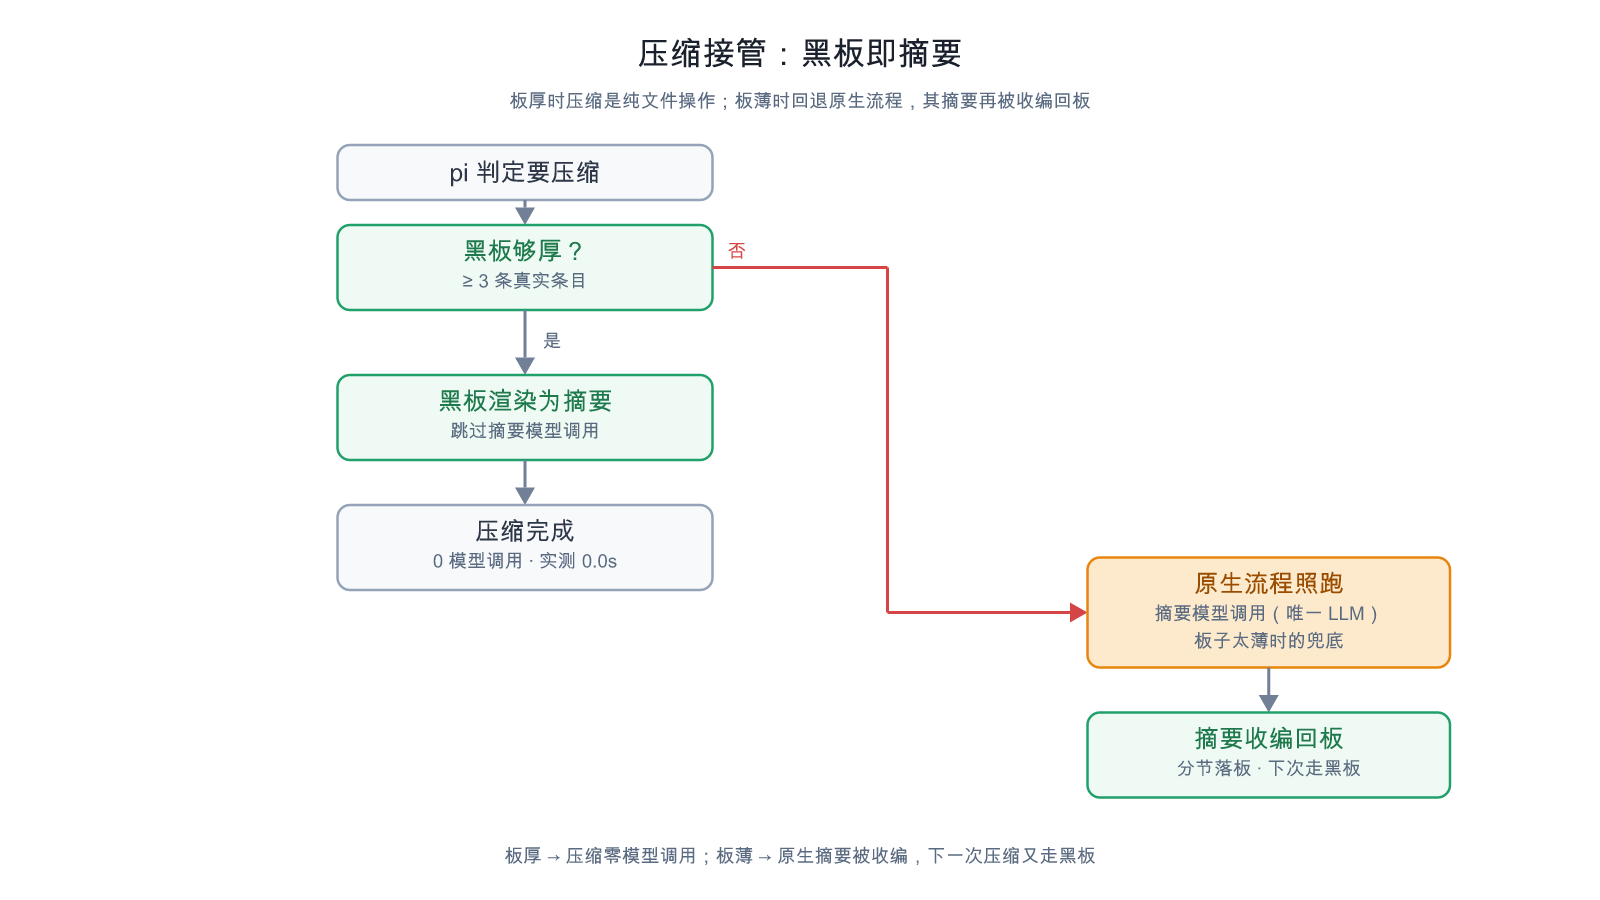
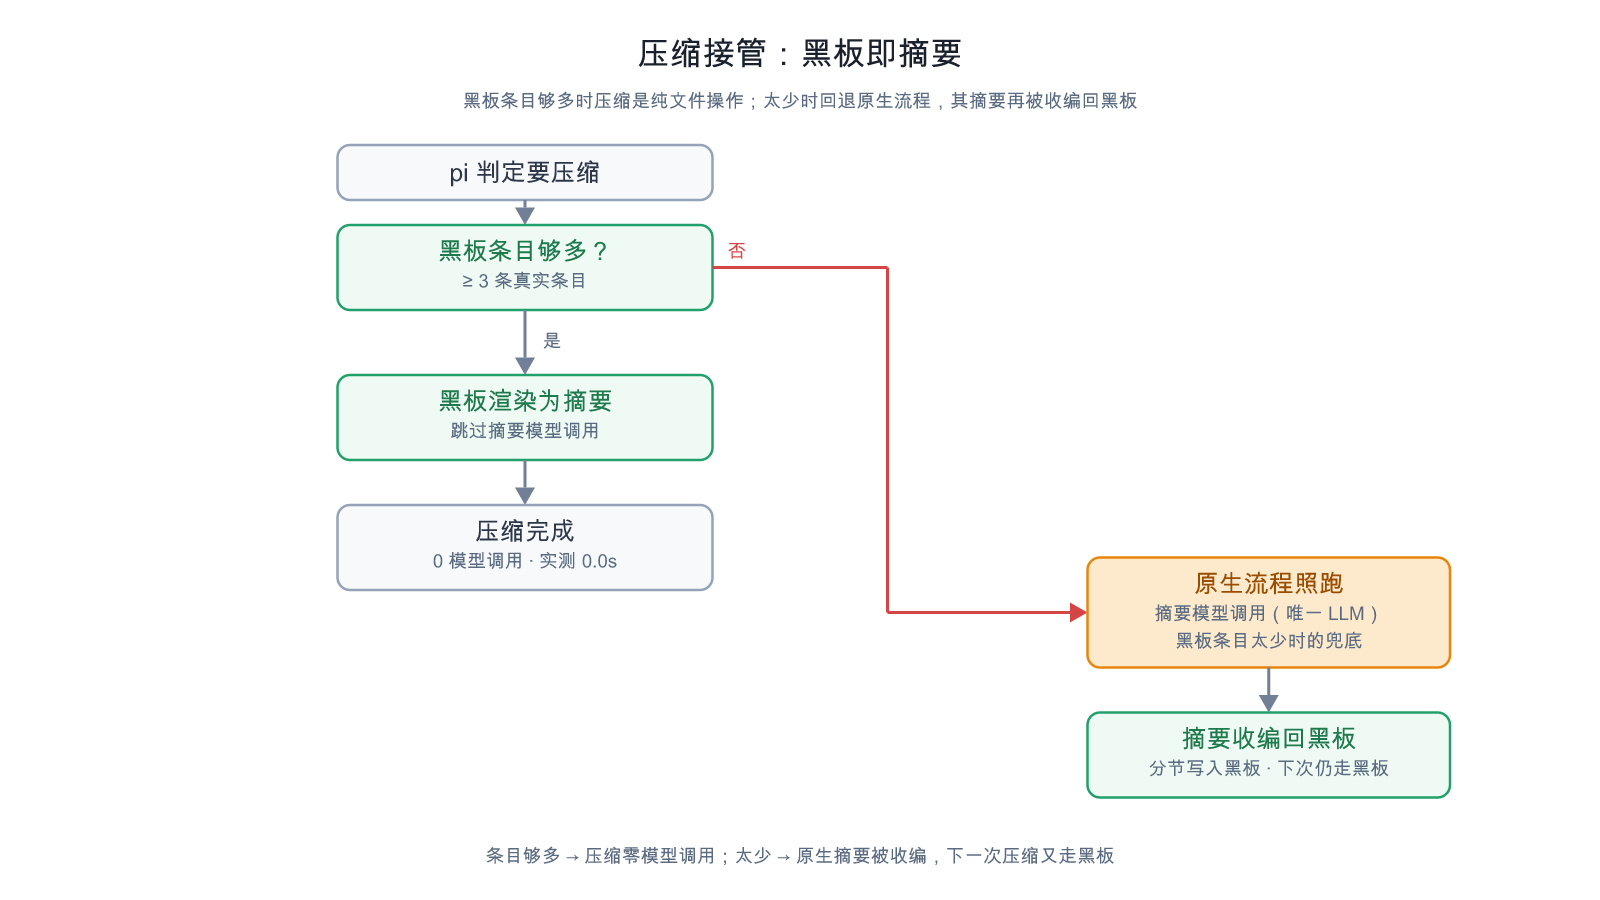
README 去过拟合：按 humanizer-zh 过一遍散文，中文术语统一为「黑板」
用户反馈文字 AI 味太重。按 C:\Users\LittleSatellite233\.pi\agent\skills\humanizer-zh
的规范只改确实存在的表达问题，保留全部事实、数字、限定与代码块：

- 去掉自我标榜与格言式收尾：banner 从「The honest warning / 真正的警告」改为直陈取舍；
  「connective tissue / 连接组织」这类比喻换成具体所指（语气、保留余地、没成形的推理）；
  「本扩展存在的理由正是…恰恰是丢得最干净的」「安全性靠结构而不是拒绝」「不会丢东西」
  等拔高句改成可核对的说法。
- 减少假对比与万能破折号：EN 散文 em dash 42→22（表格与代码样例保留），ZH —— 67→42；
  分句关系改用冒号/逗号/句号。
- 去掉 alliteration 与碎片收尾：corrects, culls / 毫秒级，无网络，无调参 等。
- 标题去营销腔并同步锚点：EN "Enable the mode that matters"→"Enable board mode"、
  "Limitations (the honest version)"→"Known limitations"；ZH「打开真正有用的模式」→
  「打开 board 模式」、「局限（诚实版）」→「已知局限」；目录与配置表内链同步改。
- 中文术语统一：56 处「板/板子」全部改成「黑板」，"落板"→"写入黑板"、"活板"→"当前黑板"、
  "薄板"→"内容太少的黑板"；docs/src/02-compaction-zh.svg 标签同步改（黑板条目够多？/
  摘要收编回黑板/分节写入黑板），已 npm run docs:render 重出 4 张 PNG 并目检
  02-compaction-zh.png：无溢出、无缺字、箭头居中。

diff --git a/README.md b/README.md
@@ -8,17 +8,19 @@ hands the draft to the agent for review, and writes what survives to disk. When
 compaction fires, **that file is the summary**: pi's summarization call is skipped
 entirely, and pi's own cut-point, retained tail and compaction entry are untouched.
 
-> ⚠ **The honest warning.** `"board"` mode buys cost and determinism with
-> summary *quality*: an LLM summary re-narrates the conversation, while a board
-> replays only what was committed to it — expect to lose connective tissue, not
-> facts. The floor under it: pi's retained tail is still verbatim; every
-> superseded and rotated line stays on disk and is searchable via
-> `blackboard_recall` (the live board, `archive/`, and the snapshot digests) or
-> `/bb show`; and a thin board falls back to native summarization. The default
+> ⚠ **The trade-off, before you rely on it.** `"board"` mode skips the
+> summarization call and makes the summary deterministic, but the summary is then
+> a render of what was committed. An LLM summary also re-narrates the
+> conversation, and that narrative is what you give up: tone, hedging,
+> half-formed reasoning, anything never written down. The facts themselves stay.
+> What you can still fall back on: pi's retained tail is verbatim, superseded and
+> rotated lines stay on disk and are searchable via `blackboard_recall` (the live
+> board, `archive/`, and the snapshot digests) or `/bb show`, and a board with
+> fewer than 3 real entries falls back to native summarization. The default
 > `compaction: "off"` never touches pi's native flow. The core path is covered by
 > a 54-check smoke suite and by daily use in real sessions. Feedback in
 > [issues](https://github.com/113636xfh/pi-session-blackboard/issues) is welcome;
-> also read [Limitations](#limitations-the-honest-version).
+> also read [Known limitations](#known-limitations).
 
 [![test](https://github.com/113636xfh/pi-session-blackboard/actions/workflows/test.yml/badge.svg)](https://github.com/113636xfh/pi-session-blackboard/actions/workflows/test.yml)
 [![License: MIT](https://img.shields.io/badge/License-MIT-yellow.svg)](LICENSE)
@@ -36,7 +38,7 @@ entirely, and pi's own cut-point, retained tail and compaction entry are untouch
 
 - [Why](#why)
 - [Install](#install)
-- [Enable the mode that matters](#enable-the-mode-that-matters)
+- [Enable board mode](#enable-board-mode)
 - [What you actually see](#what-you-actually-see)
 - [How it works](#how-it-works)
 - [The board](#the-board)
@@ -46,7 +48,7 @@ entirely, and pi's own cut-point, retained tail and compaction entry are untouch
 - [Cost model](#cost-model)
 - [Compatibility](#compatibility)
 - [Development](#development)
-- [Limitations (the honest version)](#limitations-the-honest-version)
+- [Known limitations](#known-limitations)
 - [Acknowledgements & license](#acknowledgements--license)
 
 ## Why
@@ -56,21 +58,21 @@ into one block of text. Two costs:
 
 1. **It is the most expensive call in the loop.** On a local model (W4A16 27B
    over PCIe) it did not finish inside 3 minutes.
-2. **It is lossy in exactly the wrong way.** File paths, function names, exact
-   error text — the facts you need to keep working after the compaction — are
-   the first things a prose summary drops or paraphrases.
+2. **It drops the facts you need after compaction.** File paths, function names
+   and exact error text are the first things a prose summary paraphrases or
+   loses.
 
 This package does not try to write a better summary. It changes the **source of
 information**: the facts are already in the session, so they are mined every
-turn by deterministic code, curated by the agent itself (the only step that
-needs semantic judgement — a regex cannot tell "this decision is dead" from
-"this decision still holds"), and stored as one line per fact. Compaction then
-renders that file.
+turn by deterministic code, curated by the agent itself (the only step that needs
+semantic judgement: a regex cannot tell "this decision is dead" from "this
+decision still holds"), and stored as one line per fact. Compaction then renders
+that file.
 
 ## Install
 
-Shortest path — pi clones the repo into `~/.pi/agent/git/github.com/113636xfh/…`
-and writes the entry into `~/.pi/agent/settings.json` itself:
+pi can clone it for you, into `~/.pi/agent/git/github.com/113636xfh/…`, and
+write the entry into `~/.pi/agent/settings.json` itself:
 
 ```bash
 pi install git:github.com/113636xfh/pi-session-blackboard    # user-level; -l for project-level
@@ -91,7 +93,7 @@ pi install ./pi-session-blackboard      # pi loads src/index.ts directly — no 
 `npm install && npm test` (typecheck + a 54-check smoke suite) is only needed
 for development. The extension is TypeScript loaded by pi's own extension
 loader, and `@earendil-works/pi-coding-agent` / `typebox` are aliased to pi's
-installed copies (`dist/core/extensions/loader.js` → `getAliases()`) — which is
+installed copies (`dist/core/extensions/loader.js` → `getAliases()`), which is
 why this package declares **no runtime dependencies**.
 
 Remove with `pi remove <name-as-shown-by-pi-list>`.
@@ -106,14 +108,14 @@ string** form:
 ```
 
 An empty `extensions: []` means "explicitly none", not "no filter". Check with
-`pi list` — a `(filtered)` marker means the extension is not loading.
+`pi list`: a `(filtered)` marker means the extension is not loading.
 
-## Enable the mode that matters
+## Enable board mode
 
-Out of the box the extension **assists**: native compaction still runs, and a
-capped deterministic board section is appended to the LLM summary. The headline
-mode is one key away — in `~/.pi/agent/settings.json` (user) or
-`.pi/settings.json` (project, wins):
+By default the extension only **assists**: native compaction still runs, and a
+capped deterministic board section is appended to the LLM summary. Board mode is
+one key away, in `~/.pi/agent/settings.json` (user) or `.pi/settings.json`
+(project, wins):
 
 ```jsonc
 {
@@ -133,9 +135,10 @@ Three modes:
 
 ## What you actually see
 
-**1. A checkpoint rides your next prompt** (hidden message, `display: false`, so
-the TUI stays clean). It carries the deterministic draft, a countdown to
-compaction, and one blunt instruction: *what you commit here is the summary.*
+**1. A checkpoint arrives with your next prompt** (hidden message,
+`display: false`, so the TUI stays clean). It carries the deterministic draft, a
+countdown to compaction, and the instruction: *what you commit here is the
+summary.*
 
 ```
 [session-blackboard checkpoint]
@@ -154,7 +157,8 @@ Every other draft line lands ONLY if you write it yourself in `entries`.
 --- end draft ---
 ```
 
-**2. The agent curates** — corrects, culls, and commits with `blackboard`:
+**2. The agent reviews the draft**, corrects it, deletes what is wrong, and
+commits with `blackboard`:
 
 ```jsonc
 { "action": "commit", "entries": [
@@ -165,7 +169,7 @@ Every other draft line lands ONLY if you write it yourself in `entries`.
 
 The mechanical draft does not have to be retyped: the deterministic lines
 (`MODIFIED …`, `COMMIT …`) land with this same commit, marked `~` in the receipt.
-The receipt itself stays small — your entries `+`, auto-accepted draft lines `~`,
+The receipt itself stays small: your entries `+`, auto-accepted draft lines `~`,
 each preceded by its 2 nearest older entries (enough to pick the next
 `supersedes` substring):
 
@@ -190,7 +194,7 @@ Board after commit — your entries (+) and auto-accepted draft lines (~), each 
 Full board: ~/.pi/agent/blackboard/<sid>.md — use action="show" or blackboard_recall, do not re-read the file.
 ```
 
-**3. `/bb` shows the state of play** at any time:
+**3. `/bb` shows the current state** at any time:
 
 ```
 blackboard: ~/.pi/agent/blackboard/<sid>.md
@@ -202,14 +206,14 @@ compaction: board | 3.3k tokens left until pi's native trigger
 
 ![The per-turn curation loop](docs/images/01-loop-en.png)
 
-Three parts, and exactly one of them involves a model:
+Three parts, and only the second one involves a model:
 
 1. **Extraction — deterministic, every turn.** Pure TS scans only the session
    entries since the last cursor: goal/scope, preferences, `MODIFIED <path>
    (symbols)` from successful `edit`/`write`, `COMMIT <hash> <subject>` from
    successful `git commit`, `[ERROR] <cmd>: <first error line>` from failed
-   shells, decision/finding/next-step phrasing from assistant prose.
-   Milliseconds, no network, no tuning.
+   shells, decision/finding/next-step phrasing from assistant prose. It runs in
+   milliseconds and makes no network calls.
 2. **Review — the agent, inside its own turn.** The draft is injected with your
    next message (`delivery: "next-turn"`, zero extra API calls) or immediately
    as a steer (`"immediate"`). The agent commits the survivors or skips.
@@ -217,19 +221,18 @@ Three parts, and exactly one of them involves a model:
    archive files; every commit mirrors a compact digest into the session JSONL
    (`sbb-snapshot` custom entries — never in LLM context, permanently searchable).
 
-Open issues whose referenced file was later modified get marked `[RESOLVED <ts>]`
-automatically.
+The extension also marks an open issue `[RESOLVED <ts>]` once the file it
+references is modified.
 
 ### Draft and commit are one call
 
-Mechanical extraction never writes to the board by itself — it fills a **pending
+Mechanical extraction never writes to the board by itself; it fills a **pending
 draft**. What used to happen: the draft was displayed, then discarded, so a mined
 fact survived only if the agent retyped it. Measured over 70 debug logs and 26
 real boards: 258 turns produced **2013 draft lines**, there were 143 commits, and
 the boards kept just **12** `MODIFIED`/`COMMIT` lines against 528 agent-written
-ones (2.2%) — the exact facts this package exists to preserve were precisely the
-ones being lost, and retyping the rest is output-token work (mean draft 7.6
-lines, median 5, p90 17, max 45).
+ones (2.2%). The deterministic facts were the ones being lost, and retyping the
+rest costs output tokens (mean draft 7.6 lines, median 5, p90 17, max 45).
 
 A commit now carries both halves:
 
@@ -240,13 +243,13 @@ A commit now carries both halves:
 | `dropDraft: ["substring"]` | the draft lines the agent **rejects** — case-insensitive, no retyping |
 
 The heuristic extractors (prose-mined decisions/findings/next, `[ERROR]` lines,
-preference patterns, scope changes) deliberately stay under the agent's pen: they
-are starting points and they do produce false positives. `draftOnCommit: "all"`
-flips it so the whole draft lands and the agent only culls; `"none"` restores
+preference patterns, scope changes) deliberately stay manual: they are starting
+points and they do produce false positives. `draftOnCommit: "all"` flips it so
+the whole draft lands and the agent only culls; `"none"` restores
 retype-everything.
 
 Whatever the policy, the commit clears the draft and the receipt states how many
-draft lines did **not** land — the leak is visible instead of silent.
+draft lines did **not** land, so a dropped fact is visible rather than silent.
 
 ### Compaction: the board is the summary
 
@@ -266,7 +269,7 @@ draft lines did **not** land — the leak is visible instead of silent.
   Preferences`, `## Key Decisions`, `## Key Findings`, `## Files & Changes`,
   `## Open Issues`, `## Next Steps`) plus a footer: board file path, archive
   directory, and how to use `blackboard_recall`;
-- **the footer is reserved before truncation** — when the board exceeds
+- **the footer is reserved before truncation**: when the board exceeds
   `summaryMaxChars`, the oldest body lines go, never the retrieval instructions;
 - **a thin board never becomes a thin summary**: fewer than 3 real entries →
   `null` → untouched native flow. Read/render errors fall back the same way.
@@ -282,15 +285,15 @@ One switch sends the *next* compaction through pi's own summarization even in
    runs untouched (its cut-point, retained tail, retry policy);
 3. `session_compact` then **merges that native summary back into the board**.
 
-So it costs one model call and still loses nothing. To make native the permanent
-choice, set `"compaction": "off"`.
+So it costs one model call, and the board still gets the result. To make native
+the permanent choice, set `"compaction": "off"`.
 
 ### Adoption: a native summary is never wasted
 
-Any summary pi produced by itself — from an earlier session before the extension
-was enabled, or from a fallback because the board was thin — is parsed into board
-entries and **merged**, oldest first, on `session_start` and on `session_compact`.
-Safety comes from structure, not from refusing:
+On `session_start` and on `session_compact`, any summary pi produced by itself
+(from an earlier session before the extension was enabled, or from a fallback
+because the board was thin) is parsed into board entries and **merged**, oldest
+first. Three rules keep the merge safe:
 
 - the board's own summary is refused (marker in its title), so a board-mode
   compaction can never be parsed back into itself;
@@ -307,7 +310,7 @@ model-override → project settings → user settings → pi's built-in 16384. I
 `compactionWarnTokens` (default 32768) of that line the checkpoint switches to
 **every turn** — even with an empty draft — because the next turn may be the
 last one before the board becomes the summary. If the token count is unknown
-(right after a compaction), no line is printed: it never fakes an alarm.
+(right after a compaction), no line is printed rather than a guessed one.
 
 ## The board
 
@@ -331,7 +334,7 @@ One line per fact, auto-timestamped, capped at `maxEntryChars` (300):
 
 **A changed fact must not leave two versions on the board.** `commit` only
 dedupes exact matches, so editing a fact without `supersedes` leaves the stale
-line next to the new one — and the summary would carry both. `supersedes` names a
+line next to the new one, and the summary would carry both. `supersedes` names a
 unique substring of the line being replaced: it is archived in the same call
 (one file per commit, still recallable), a pointer line records it, and the new
 line becomes the only version the summary can show. An ambiguous or missing
@@ -340,7 +343,7 @@ longer substring.
 
 ## Searching past the summary
 
-Once the board *is* the summary, the model needs a way to dig below it.
+Once the board is the summary, the model needs a way to read below it.
 `blackboard_recall` greps, case-insensitively, in order: the live board → the
 archive files (newest first, up to 40) → the mirrored `sbb-snapshot` digests.
 
@@ -356,8 +359,8 @@ blackboard recall — 3 match(es) for "reserveTokens" (newest last):
 ```
 
 Digest hits are attributed to the board section the line came from (`recentFiles`
-reports `Files`); numbers and the `counts` object are skipped — matching a count
-is noise, not a fact. `full: true` dumps whole snapshots when you want the board
+reports `Files`); numbers and the `counts` object are skipped, since matching a
+count is noise. `full: true` dumps whole snapshots when you want the board
 state rather than a single fact.
 
 ## Where things live
@@ -376,7 +379,7 @@ the agent commits:
 | session JSONL (`sbb-snapshot`) | extension, `mirrorToSession` | compact digest, searchable by recall |
 
 Default `<boardDir>` is `<pi agent dir>/blackboard`. State, drafts, mirrors and
-digests **never enter the model context** — they are files and JSONL custom
+digests **never enter the model context**: they are files and JSONL custom
 entries: greppable, committable, readable with the normal `read` tool (e.g.
 after a compaction).
 
@@ -414,7 +417,7 @@ Key `"session-blackboard"` in `~/.pi/agent/settings.json` (user) or
 | `enabled` | `true` | master switch; `false` also *de-activates* the tool (pi auto-activates extension tools) |
 | `checkpointTurns` | `1` | review cadence in user turns. Extraction and `[RESOLVED]` marking still run every turn. Raise to 3–10 if the review cadence feels heavy |
 | `delivery` | `"next-turn"` | `"next-turn"`: the draft rides your next message (zero extra LLM calls). `"immediate"`: a steer message triggers a review turn now — useful for unattended runs where the next user message is far away |
-| `compaction` | `"off"` | `"board"` is the mode this package exists for — see [Enable the mode that matters](#enable-the-mode-that-matters) |
+| `compaction` | `"off"` | `"board"` is what this package is for — see [Enable board mode](#enable-board-mode) |
 | `compactionWarnTokens` | `32768` | near-compaction zone in tokens left; inside it the checkpoint fires every turn with a countdown. `0` disables |
 | `maxEntriesPerSection` | `40` | per-section budget before rotation |
 | `maxEntryChars` | `300` | per-entry cap (adopted foreign summaries get 600 — a hard cut mid-rationale loses the part that matters) |
@@ -456,8 +459,8 @@ flow runs untouched with its own retry policy.
 - **Zero runtime dependencies** — only `node:*`, `typebox` and
   `@earendil-works/pi-coding-agent`, all resolved by pi's extension loader.
 - **Node ≥ 22.** pi's own package imports `globSync` from `node:fs` (added in
-  Node 22), so the test suite cannot even load its dependency on Node 20 — CI
-  runs 22.x and 24.x, and `engines.node` says `>=22`.
+  Node 22), so the test suite cannot even load its dependency on Node 20, and CI
+  runs 22.x and 24.x; `engines.node` says `>=22`.
 - TypeScript strict; `npm install && npm run typecheck`.
 
 ## Development
@@ -489,27 +492,27 @@ in `docs/images/` are what GitHub renders.
 `typebox` to whatever is installed on this machine) and are git-ignored on
 purpose.
 
-## Limitations (the honest version)
+## Known limitations
 
-- **Board mode is a quality trade against native compaction.** An LLM summary
-  re-narrates the conversation; the board replays the committed lines, so what you
-  give up is the connective tissue — tone, hedging, half-formed reasoning, and
-  anything that was never written down. Nothing is thrown away: pi's retained tail
-  stays verbatim, superseded and rotated lines stay on disk, and `blackboard_recall`
-  / `/bb show` let the agent go back and re-read them. If you would rather pay the
-  model call, `compaction: "off"` (the default) keeps pi's native summary.
+- **Board mode trades summary quality for cost and determinism.** An LLM summary
+  re-narrates the conversation; the board renders the committed lines. What you
+  give up is the narrative: tone, hedging, half-formed reasoning, and anything
+  that was never written down. Nothing is deleted: pi's retained tail stays
+  verbatim, superseded and rotated lines stay on disk, and `blackboard_recall` /
+  `/bb show` let the agent read them again. If you would rather pay the model
+  call, `compaction: "off"` (the default) keeps pi's native summary.
 - **Curation is prompt-enforced, not guaranteed.** The model can ignore a
   checkpoint. Mitigations: at most 3 re-injections plus a visible warning, and a
   fresh trigger on the next user turn. Near-compaction nudges do not consume
   that budget.
 - **Assistant-text mining (decisions/next/findings) is deliberately light and
-  capped.** It is a starting point for the review pass, not a source of truth.
+  capped.** Treat it as a starting point for the review pass.
 - **Auto-accepted `Files` lines are not reviewed.** They come from tool arguments
-  (which file, which exported symbol, which commit hash), so they are exact — but
-  "exact" is not "relevant": a session that touches 30 files gets 30 lines. Set
+  (which file, which exported symbol, which commit hash), so they are exact, but
+  not always relevant: a session that touches 30 files produces 30 lines. Set
   `draftOnCommit: "none"` if you want every line to pass through the agent.
 - **The `[ERROR]` extractor is a heuristic over raw tool output** and does
-  produce false positives — observed: an `[ERROR]` line echoed inside test
+  produce false positives. Observed: an `[ERROR]` line echoed inside test
   output, and a `grep -c` with zero matches (exit code 1) on a run that actually
   passed. The review step is the mitigation; extraction will keep making
   mistakes like these.
